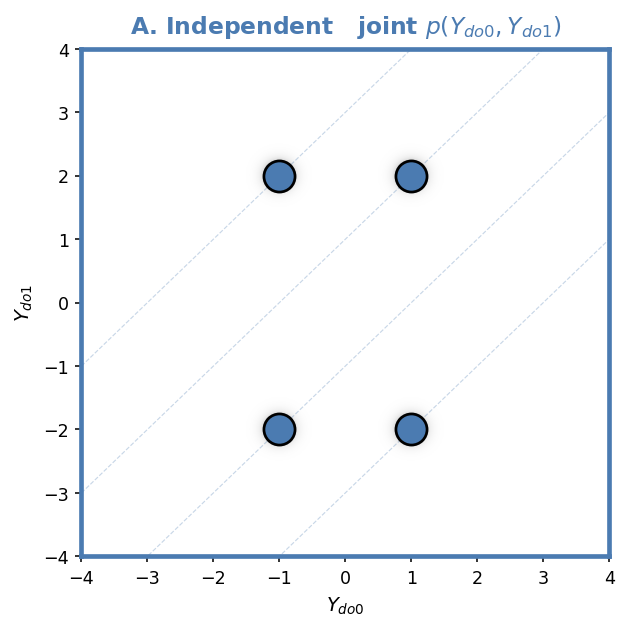
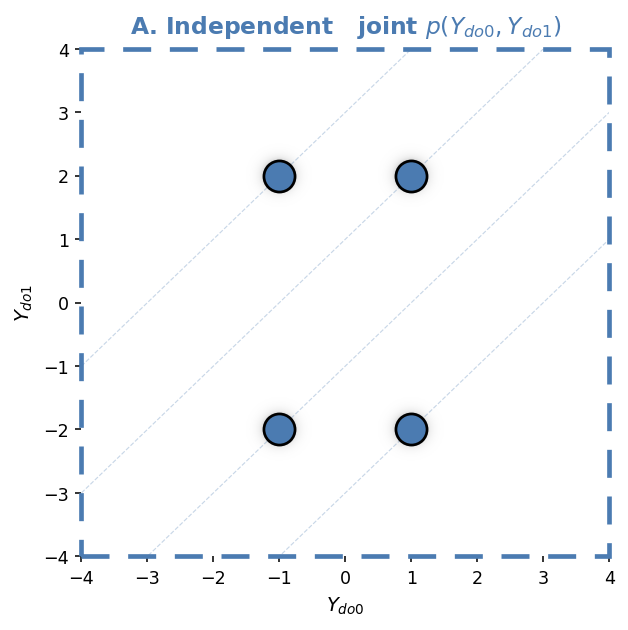
panel_joint_A: render the border as a dashed rectangle
_save_panel_joint gains a dashed_frame flag. When True the built-in
solid spines are hidden and a dashed matplotlib.patches.Rectangle
overlays the plot area — spine.set_linestyle('--') doesn't render
cleanly on the short spine segments.

Panel A (Independent) is the case a marginal-only model would
implicitly assume, so its border is now dashed to mark it as the
"hypothesized" coupling. B and C keep their solid frames as the two
alternative real couplings.

diff --git a/benchmarks/plots/plot_marginal_only_failure.py b/benchmarks/plots/plot_marginal_only_failure.py
@@ -354,8 +354,14 @@ _PANEL_DIR = os.path.join(_OUTDIR, 'panels')
 os.makedirs(_PANEL_DIR, exist_ok=True)
 
 
-def _save_panel_joint(label, jp, color, name):
-    """Render one joint distribution as a stand-alone square figure."""
+def _save_panel_joint(label, jp, color, name, dashed_frame=False):
+    """Render one joint distribution as a stand-alone square figure.
+
+    dashed_frame=True renders the coloured border as a dashed rectangle
+    overlay (spine.set_linestyle('--') looks broken on short edges), used
+    for the Independent case A to mark it as the marginal-only model's
+    implicit assumption rather than a claim about the true coupling.
+    """
     fig, ax = plt.subplots(figsize=(4.6, 4.6))
     Z = kde_2d(jp, GRID_Y, GRID_Y)
     ax.imshow(Z.T, origin='lower',
@@ -370,8 +376,19 @@ def _save_panel_joint(label, jp, color, name):
     for t in ALL_TAUS:
         xs = np.linspace(-4, 4, 30)
         ax.plot(xs, xs + t, ls='--', color=color, lw=0.6, alpha=0.30)
-    for spine in ax.spines.values():
-        spine.set_edgecolor(color); spine.set_linewidth(2.4)
+    if dashed_frame:
+        # Hide the built-in solid spines and overlay a dashed rectangle border
+        for spine in ax.spines.values():
+            spine.set_visible(False)
+        from matplotlib.patches import Rectangle
+        border = Rectangle((-4, -4), 8, 8, fill=False,
+                            edgecolor=color, linewidth=2.4,
+                            linestyle=(0, (6, 4)),   # long-dash pattern
+                            zorder=10, clip_on=False)
+        ax.add_patch(border)
+    else:
+        for spine in ax.spines.values():
+            spine.set_edgecolor(color); spine.set_linewidth(2.4)
     ax.set_xlim(-4, 4); ax.set_ylim(-4, 4)
     ax.set_xlabel(r'$Y_{do0}$'); ax.set_ylabel(r'$Y_{do1}$')
     ax.set_title(f'{label}   joint $p(Y_{{do0}}, Y_{{do1}})$',
@@ -444,9 +461,10 @@ def _save_panel_te(label, jp, real_taus, color, name):
     print(f'[save] {path}')
 
 
-# joints A, B, C
+# joints A, B, C — A gets a dashed frame (marginal-only implicit assumption)
 for (label, jp, _real), color, tag in zip(CASES, CASE_COLORS, ['A', 'B', 'C']):
-    _save_panel_joint(label, jp, color, f'panel_joint_{tag}')
+    _save_panel_joint(label, jp, color, f'panel_joint_{tag}',
+                       dashed_frame=(tag == 'A'))
 
 # shared marginals
 _save_panel_marginals('panel_marginals')